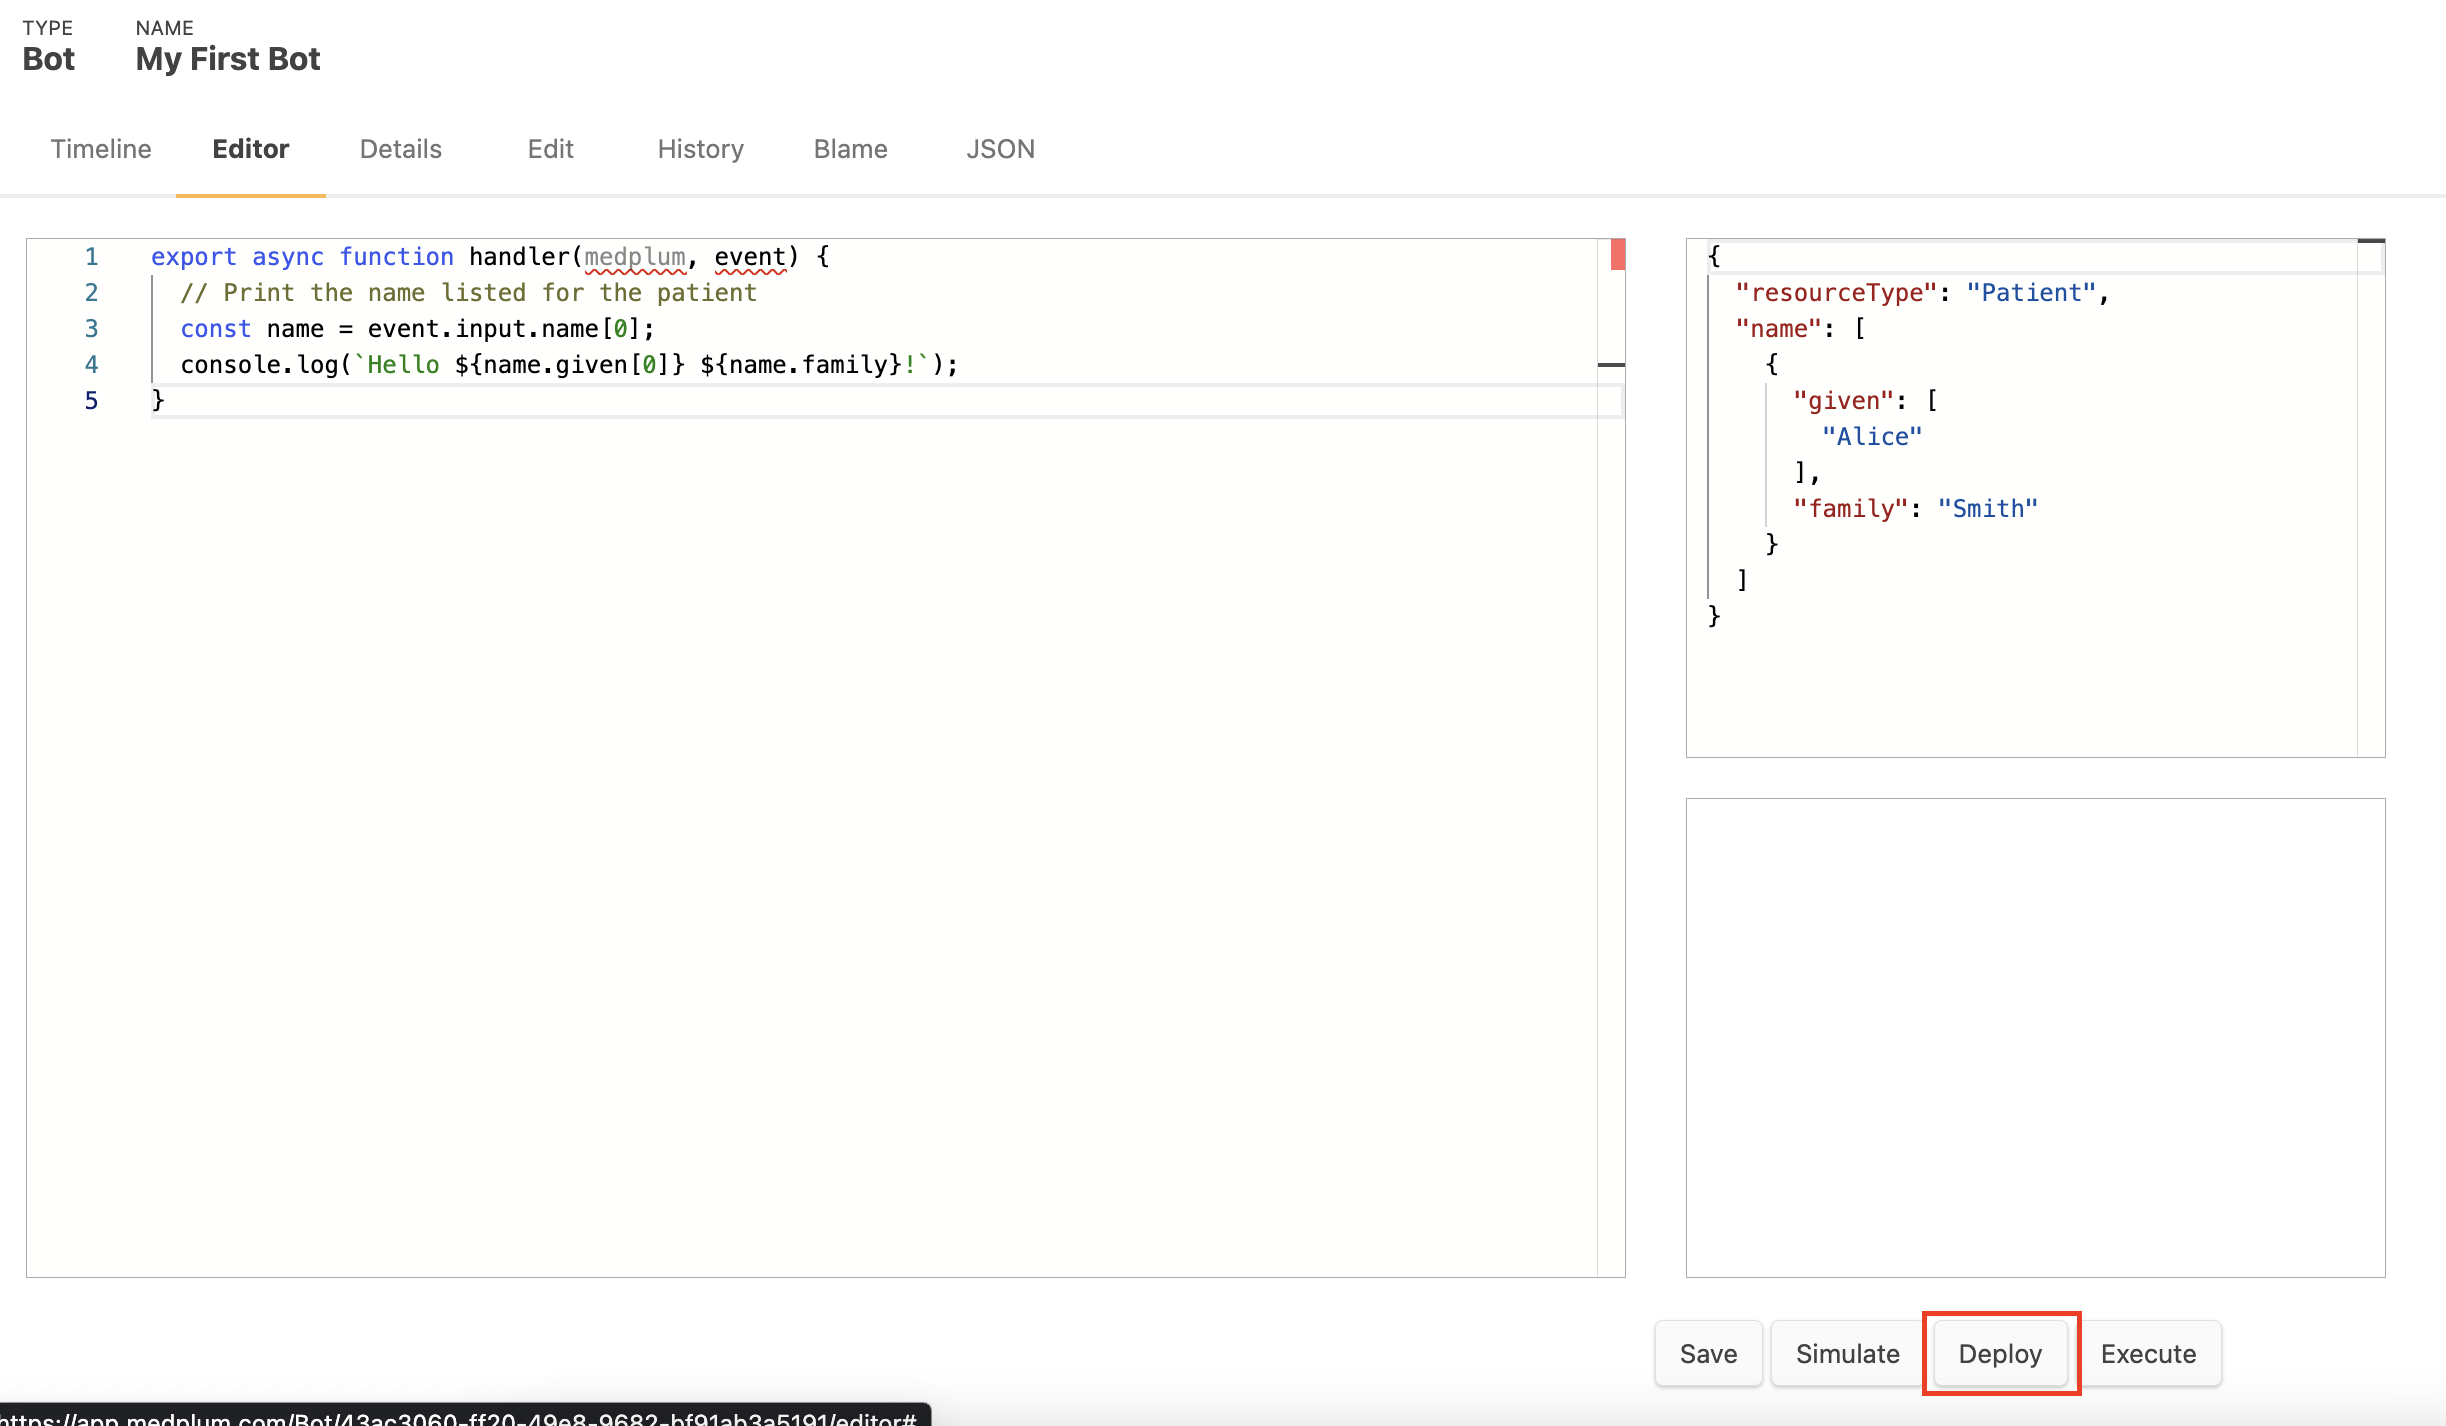
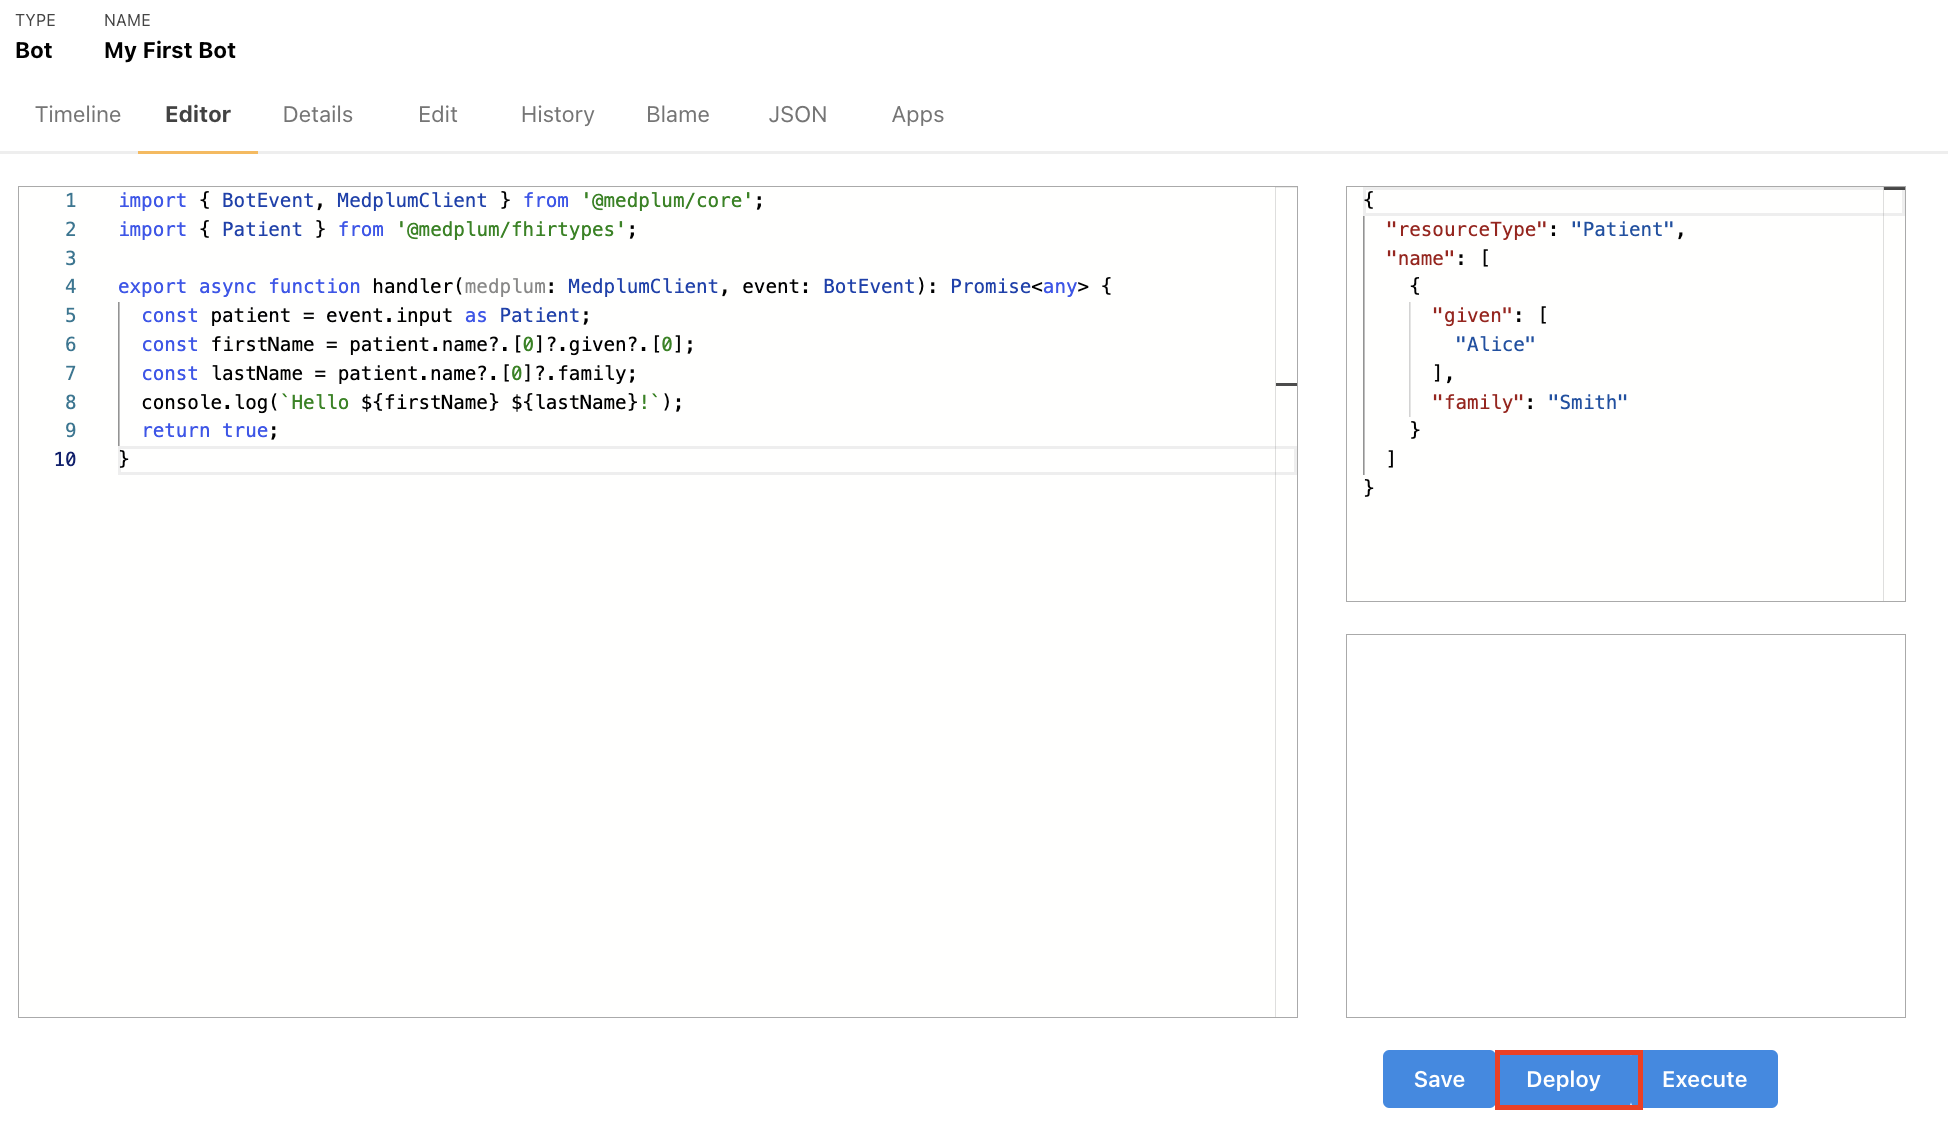
Tutorial: Bots in Production (#1014)
* Work in progress tutorial on setting up your repo

WIP Setting up your repo

* Fixing merge error

* WIP Tutorial on setting up a repo for Bots

* Finished Bots Repo tutorial

* Updated screenshots in bots-basic.md to match newest example

* Fixed broken links

* Fixing broken directions

* Fixing typos

diff --git a/packages/docs/docs/tutorials/bots/bots-in-production.md b/packages/docs/docs/tutorials/bots/bots-in-production.md
@@ -1,0 +1,245 @@
+---
+sidebar_position: 1
+toc_max_heading_level: 2
+---
+
+# Bots in Production
+
+Editing bots in the web editor is good for getting started quickly, but as Bots become more important you will want to manage them as part of your regular software development lifecycle. This means:
+
+- Storing bot code in source control (typically git)
+- Writing unit tests for your bots
+- Deploying your bots as part of your CI/CD pipeline.
+
+## This Guide will show you
+
+- How to set up a repository to host the source code for your Bots.
+- Write a new `Bot` in Typescript.
+- Create a new `Bot` resource and link it to your Typescript file.
+- Use the [Medplum Command Line Interface (CLI)](https://github.com/medplum/medplum/tree/main/packages/cli) to deploy your Bot to production.
+
+## Setting up your Repository
+
+The first thing we'll do is set up a Git repository to host your Bot code. While you can set up bots in any git repository, we provide a [template Git repository](https://github.com/medplum/medplum-demo-bots) to help you get started.
+
+Clone the repo and install the dependencies
+
+```bash
+git clone git@github.com:medplum/medplum-demo-bots.git my-bots
+cd my-bots
+npm install
+```
+
+## Create a source file
+
+After we've installed dependencies, we can write your Bot in any typescript file under the `src/` directory.
+
+As mentioned in [Bot Basics](./bot-basics), a bot is any Typescript file that contains a `handler` function with the following signature:
+
+```ts
+import { MedplumClient, BotEvent } from '@medplum/core';
+export async function handler(medplum: MedplumClient, event: BotEvent): Promise<any> {
+  // Your code here
+}
+```
+
+See the [Bot Basics tutorial](./bot-basics#editing-a-bot) for more details about the arguments to `handler`.
+
+The starter repository contains an example Bot in the `examples` directory called `hello-patient.ts`. You can copy this example file to get started on your own bots:
+
+```bash
+cd src
+cp examples/hello-patient.ts my-first-bot.ts
+```
+
+You'll see that this creates a simple bot that logs the patient's name to the console. For more details on how this code works, check out the [Bot Basics](./bot-basics/#editing-a-bot) tutorial.
+
+```ts
+// src/my-first-bot.ts
+import { BotEvent, MedplumClient } from '@medplum/core';
+import { Patient } from '@medplum/fhirtypes';
+
+export async function handler(medplum: MedplumClient, event: BotEvent): Promise<any> {
+  const patient = event.input as Patient;
+  const firstName = patient.name?.[0]?.given?.[0];
+  const lastName = patient.name?.[0]?.family;
+  console.log(`Hello ${firstName} ${lastName}!`);
+  return true;
+}
+```
+
+## Compiling your Bot
+
+Congratulations! You’ve just written your first bot. Our next step will be to compile this code and link it to a [`Bot` resource](/docs/api/fhir/medplum/bot).
+
+First, compile your code:
+
+```bash
+npm run build
+```
+
+This runs the `tsc` compiler to translate your Typescript code to Javascript.
+
+Next, take a look at your `dist/` directory and notice how there is now a file called `my-first-bot.js` with the compiled version of your code.
+
+```bash
+cd ..
+ls dist
+
+# my-first-bot.d.ts
+# my-first-bot.js
+# my-first-bot.js.map
+# examples/
+# ...
+
+```
+
+## Linking your code to a Bot Resource
+
+The next step will be to create a [`Bot` resource](/docs/api/fhir/medplum/bot) using the Medplum App and link your code to the resource.
+
+First, we'll have to create the resource in the Medplum App. If you haven't already done so, follow the instructions on the [Bot Basics tutorial](./bot-basics/#creating-a-bot) to create a new Bot resource.
+
+Next, we need to tell the [Medplum CLI](https://github.com/medplum/medplum/tree/main/packages/cli) which `.ts` and `.js` files are associated with the resource by editing the `medplum.config.json` field.
+
+Open the the file `medplum.config.json` and add the following entry to the `bots` array.
+
+```js
+{
+  "bots": [
+    //…
+    {
+      "name": "my-first-bot",
+      "id": "<BOT_ID>",
+      "source": "src/my-first-bot.ts",
+      "dist": "dist/my-first-bot.js"
+    }
+  ]
+}
+```
+
+| Parameter | Description                                                                                                                                                                                                                                          |
+| --------- | ---------------------------------------------------------------------------------------------------------------------------------------------------------------------------------------------------------------------------------------------------- |
+| `name`    | Name of the bot used in the [Medplum CLI](https://github.com/medplum/medplum/tree/main/packages/cli) (below). **Note**: This name can be whatever your want. It does not have to match the filename of the bot code, nor anything in the Medplum App |
+| `id`      | The Bot Resource `id`. Can be found by navigating to [app.medplum.com/Bot](https://app.medplum.com/Bot) and clicking on the entry for the corresponding Bot. See the [Bot Basics tutorial](./bot-basics#bot_id) for more information                 |
+| `source`  | This is the location of the typescript source file for your bot. **Note**: Currently, Medplum only supports single-file Bots.                                                                                                                        |
+| `dist`    | This is the location of the transpiled javascript file for your bot. For most setups, this will be in your `dist` directory of your package.                                                                                                         |
+
+## Setting up your Permissions
+
+Because Bots contain important or sensitive code, it's important to prevent unauthorized users from modifying your Bots. Medplum uses the [client credentials workflow](/docs/tutorials/security/client-credentials) authenticate the [Medplum CLI](https://github.com/medplum/medplum/tree/main/packages/cli).
+
+First, you should create a Client Application on the Medplum Server by following [these directions](/docs/tutorials/security/client-credentials).
+
+The [Medplum CLI](https://github.com/medplum/medplum/tree/main/packages/cli) looks for two environment variables when authenticating: `MEDPLUM_CLIENT_ID` and `MEDPLUM_CLIENT_SECRET`.
+
+You can set these on the command line using the `export` command in bash.
+
+```bash
+export MEDPLUM_CLIENT_ID=<YOUR_CLIENT_ID>
+export MEDPLUM_CLIENT_SECRET=<YOUR_CLIENT_SECRET>
+```
+
+Alternatively, you can create a `.env` file to avoid having to re-export the environment variables in every new terminal. The example repository has a `.env.example` file you can copy to get started.
+
+```bash
+cp .env.example .env
+```
+
+```bash
+# .env
+MEDPLUM_CLIENT_ID=<YOUR_CLIENT_ID>
+MEDPLUM_CLIENT_SECRET=<YOUR_CLIENT_SECRET>
+```
+
+:::danger Warning
+
+**Your `.env` file should _never_ be checked into source control.**
+
+`MEDPLUM_CLIENT_ID` and `MEDPLUM_CLIENT_SECRET` should be considered sensitive security credentials and should never be shared in a publicly accessible store. The `medplum-demo-bots` repository adds `.env` to `.gitignore` by default.
+
+:::
+
+## Deploying your Bot
+
+Now that your Bot is written and compiled, the [resource](/docs/api/fhir/medplum/bot) is created, and your credentials are set, we can finally deploy our Bot to production using the [Medplum CLI](https://github.com/medplum/medplum/tree/main/packages/cli).
+
+To deploy our bot, we will use the `deploy-bot` command.
+
+```bash
+npx medplum deploy-bot <bot-name>
+```
+
+Where `<bot-name>` is the `name` property that you set for your bot in `medplum.config.json`. In our example, this would be:
+
+```bash
+npx medplum deploy-bot my-first-bot
+```
+
+Running this command does two things:
+
+1. Save the Typescript source to the `code` property of your [`Bot` resource](/docs/api/fhir/medplum/bot)
+2. Deploys your compiled Javascript code as an AWS Lambda function with your Medplum deployment.
+
+:::caution Note
+There is a known timing issue with the `deploy-bot` command. If you see the following error, try running the command again. If it fails after 3 tries, please [**submit a bug report**](https://github.com/medplum/medplum/issues/new) or [**contact us on Discord**](https://discord.gg/UBAWwvrVeN)
+
+```
+Deploy error: {
+resourceType: 'OperationOutcome',
+issue: [ { severity: 'error', code: 'invalid', details: [Object] } ]
+}
+```
+
+:::
+
+## Deploying to Staging vs. Production
+
+A common usage pattern is to set up two Medplum Projects for an application: A `staging` project for development and integration testing, and a `production` project to power workflows.
+
+The same Bot source code can be deployed to multiple Medplum projects by creating two separate entries in `medplum.config.json` with different names, pointing to the same source/compiled files.
+
+```js
+{
+  "bots": [
+    //…
+    {
+      "name": "my-first-bot-staging",
+      "id": "<STAGING_BOT_ID>",
+      "source": "src/my-first-bot.ts",
+      "dist": "dist/my-first-bot.js"
+    },
+    {
+      "name": "my-first-bot-production",
+      "id": "<PRODUCTION_BOT_ID>",
+      "source": "src/my-first-bot.ts",
+      "dist": "dist/my-first-bot.js"
+    }
+    //...
+  ]
+}
+```
+
+To deploy the latest Bot to staging:
+
+```bash
+export MEDPLUM_CLIENT_ID=<STAGING_CLIENT_ID>
+export MEDPLUM_CLIENT_SECRET=<STAGING_CLIENT_SECRET>
+npm run build
+npx medplum deploy-bot my-first-bot-staging
+```
+
+To deploy the latest Bot to production:
+
+```bash
+export MEDPLUM_CLIENT_ID=<PRODUCTION_CLIENT_ID>
+export MEDPLUM_CLIENT_SECRET=<PRODUCTION_CLIENT_SECRET>
+npm run build
+npx medplum deploy-bot my-first-bot-production
+```
+
+This pattern is especially powerful when deploying Bots **as part of a CI pipeline**.
+
+## Conclusion
+
+As your Bots become more complex, integrating them into your software development workflow becomes crucial. Using the [Medplum CLI](https://github.com/medplum/medplum/tree/main/packages/cli) allows you do integrate Bots into your regular code review process and deploy as part of your CI/CD pipelines.

diff --git a/packages/docs/docs/tutorials/bots/bot-basics.md b/packages/docs/docs/tutorials/bots/bot-basics.md
@@ -1,5 +1,5 @@
 ---
-sidebar_position: 0
+sidebar_position: 1
 toc_max_heading_level: 2
 ---
 
@@ -81,15 +81,43 @@ The following function arguments are available to the Bot code, to enable it to 
 
 In this example, we'll assume the input is a `Patient` resource and print out the patient's name.
 
-```js
-export async function handler(medplum, event) {
-  // Print the name listed for the patient
-  const name = event.input.name[0];
-  console.log(`Hello ${name.given[0]} ${name.family}!`);
+```ts
+import { BotEvent, MedplumClient } from '@medplum/core';
+import { Patient } from '@medplum/fhirtypes';
+
+export async function handler(medplum: MedplumClient, event: BotEvent): Promise<any> {
+  const patient = event.input as Patient;
+  const firstName = patient.name?.[0]?.given?.[0];
+  const lastName = patient.name?.[0]?.family;
+  console.log(`Hello ${firstName} ${lastName}!`);
+  return true;
 }
 ```
 
 When you are done editing, click "Save" to save your Bot code to Medplum.
+
+### Understanding the code
+
+Let's break this example down.
+
+```ts
+import { Patient } from '@medplum/fhirtypes';
+//....
+const patient = event.input as Patient;
+```
+
+This first line casts the contents of event.input of type `Patient`. This allows the rest of the bot code to take advantage of Typescript's strong type system, along with IDE autocomplete and ESLint verification. Medplum provides type definitions for all FHIR resources in the `@medplum/fhirtypes` package.
+
+```ts
+const firstName = patient.name?.[0]?.given?.[0];
+const lastName = patient.name?.[0]?.family;
+```
+
+This line extracts the first and last name for the patient. Since patients can have many different names (e.g. maiden name, common name, official name), `Patient.name` is an array. In this example, we will only consider the `0th` name entry.
+
+FHIR stores a person's first names, middle names, etc. in an array called `HumanName.given`, and the last name in the `HumanName.family` property. For more information, refer to the documentation for the [`HumanName` datatype](/docs/api/fhir/datatypes/humanname).
+
+Because these properties may be undefined, we make heavy use of the Javascript [optional chaining (`?.`) operator](https://developer.mozilla.org/en-US/docs/Web/JavaScript/Reference/Operators/Optional_chaining) to access these properties.
 
 ## Deploying a Bot
 
@@ -212,4 +240,4 @@ If you want to see all `AuditEvents` sorted by most recent, you can use [this li
 
 ## Software Development Lifecycle
 
-Bots written using the web editor should be written in Javascript. If you would like to develop locally, test and deploy apps as part of your software development lifecycle, you can use our [**Bot CLI**](https://github.com/medplum/medplum-demo-bots).
+Bots written using the web editor are a great way to get started. If you would like to develop locally, test and deploy apps as part of your software development lifecycle, you refer to our next tutorial on [deploying Bots in production](./bots-in-production)

diff --git a/packages/docs/docs/tutorials/bots/creating-a-pdf.md b/packages/docs/docs/tutorials/bots/creating-a-pdf.md
@@ -1,5 +1,5 @@
 ---
-sidebar_position: 2
+sidebar_position: 5
 ---
 
 # Create a PDF
@@ -118,7 +118,6 @@ export async function handler(medplum: MedplumClient, event: BotEvent): Promise<
   console.log('Media result', media);
   return media;
 }
-
 ```
 
 See the [pdfmake images](https://pdfmake.github.io/docs/0.1/document-definition-object/images/) page for more details.

diff --git a/packages/docs/docs/tutorials/bots/bot-for-questionnaire-response/bot-for-questionnaire-response.md b/packages/docs/docs/tutorials/bots/bot-for-questionnaire-response/bot-for-questionnaire-response.md
@@ -1,5 +1,5 @@
 ---
-sidebar_position: 1
+sidebar_position: 2
 ---
 
 # Bot for QuestionnaireResponse
